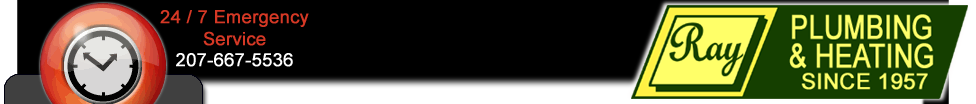
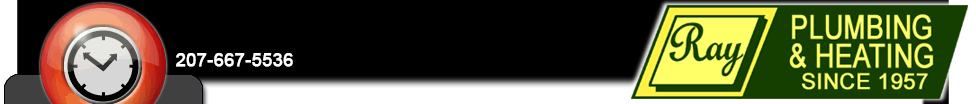
take all emergency service reference out
first pass

Changed region(s): [[0.1537, 0.0865, 0.3381, 0.2596], [0.1844, 0.4904, 0.3074, 0.6635], [0.1844, 0.3173, 0.2766, 0.4615]]

diff --git a/site/service.htm b/site/service.htm
@@ -81,10 +81,9 @@ height="0" width="0" style="display:none;visibility:hidden"></iframe></noscript>
 			<blockquote>
 			<p align="center">
           <b><font size="5">Service Department</font></b></p>
-			<p align="center"><b><font size="4">Our service department is open <br />24 hours a day,
-			<br>365 days a year, <br />providing plumbing and heating service.</font></b></p>
+			<p align="center"><b><font size="4">Our service department provides personable, experienced plumbing and heating service.</font></b></p>
 			<blockquote>
-			<p align="center"><b><font size="4">For Emergency Service call:<br><br />
+			<p align="center"><b><font size="4">For Service call:<br><br />
 			</font><font size="5"><a href="tel:2076675536">207-667-5536</a></font></b></p>
 						</blockquote>
 			<p>We offer memberships for any qualified plumbing & heating systems.</p>
@@ -121,7 +120,6 @@ height="0" width="0" style="display:none;visibility:hidden"></iframe></noscript>
 												<td bgcolor="#2C6002">
 												<p align="center">
 												<b>
-												<img border="0" src="images/burst.png" width="134" height="89">
 													<table border="0" cellpadding="5" style="margin-top: 20px; border-collapse: collapse" width="100%" bordercolor="#000000">
 														<tr>
 															<td bgcolor="#FFFFFF">
@@ -138,8 +136,7 @@ height="0" width="0" style="display:none;visibility:hidden"></iframe></noscript>
 								</tr>
 							</table>
 						</div>
-									<p><a href="green-team.htm">
-									<img src="images/greenteam.jpg" class="style3"></a></td>
+								</td>
 									<td width="200" valign="top">
 						&nbsp;<p>&nbsp;</td>
 								</tr>

diff --git a/site/waste-water.htm b/site/waste-water.htm
@@ -110,7 +110,7 @@ j=d.createElement(s),dl=l!='dataLayer'?'&l='+l:'';j.async=true;j.src=
 				</ul>
 				<p><font size="2">Ray Plumbing and Heating services all Gould
 				water pump systems as well as those of other manufacturers. Call
-				<a  href="tel:2076675536">207-667-5536</a> or 1-800-309-4825 for 24 hour emergency service.</font></p>
+				<a  href="tel:2076675536">207-667-5536</a> or 1-800-309-4825 for service.</font></p>
 			</blockquote>
 									</td>
 									<td width="200" valign="top">
@@ -130,7 +130,7 @@ j=d.createElement(s),dl=l!='dataLayer'?'&l='+l:'';j.async=true;j.src=
 												Heating, Ellsworth. <br>
 												<a style="color: white;" href="tel:2076675536">207-667-5536</a></font></b><p style="text-indent: -5px; margin-left: 5px" align="center">
 												<b><font color="#006600">
-												<img border="0" src="images/burst.png" width="134" height="89"><br>
+												<br>
 												</font>
 												<font face="Tahoma" color="#ffffff" size="2">
 												SYSTEM<br>
@@ -150,8 +150,7 @@ j=d.createElement(s),dl=l!='dataLayer'?'&l='+l:'';j.async=true;j.src=
 						</div>
 									<p>
 										<font face="tahoma">
-									<a href="green-team.htm">
-									<img src="images/greenteam.jpg" width="150" height="150" style="float: right" class="style2"></a></font></td>
+									</font></td>
 								</tr>
 								</table>
 						</div>

diff --git a/site/service-standard-heat.htm b/site/service-standard-heat.htm
@@ -44,7 +44,7 @@ j=d.createElement(s),dl=l!='dataLayer'?'&l='+l:'';j.async=true;j.src=
 														<tr>
 															<td bgcolor="#FFFFFF">
 															<b><font color="#006600">
-												<img border="0" src="images/burst.png" width="134" height="89"><br>
+											<br>
 															</font>
 															<font color="#FFFFFF" face="Tahoma" size="2">
 												<img border="0" src="photos/plumber-service.png" width="150" height="218"></font></b></td>
@@ -53,15 +53,15 @@ j=d.createElement(s),dl=l!='dataLayer'?'&l='+l:'';j.async=true;j.src=
 															<td><p align="center">
 												<font color="#FFFFFF" face="Tahoma" size="2"><b>
 												Coverage<br>
-												Includes Annual Maintenance and 
+												Includes Annual Maintenance and
 												Service Calls</b></font><p align="center">
 												<b>
 												<font face="Tahoma" size="2" color="#FFFFFF">
 												<a href="service-contact.htm">
 												<font color="#FFFF68">
 												<span style="text-decoration: none">
-												Click here to request a free 
-												custom Service Agreement 
+												Click here to request a free
+												custom Service Agreement
 												estimate&gt;&gt;&gt;</span></font></a></font></b></td>
 														</tr>
 													</table>

diff --git a/site/gould-pump.htm b/site/gould-pump.htm
@@ -112,7 +112,7 @@ j=d.createElement(s),dl=l!='dataLayer'?'&l='+l:'';j.async=true;j.src=
 												Heating, Ellsworth. <br>
 												<a style="color: white;" href="tel:2076675536">207-667-5536</a></font></b><p style="text-indent: -5px; margin-left: 5px" align="center">
 												<b><font color="#006600">
-												<img border="0" src="images/burst.png" width="134" height="89"><br>
+												<br>
 												</font>
 												<font face="Tahoma" color="#ffffff" size="2">
 												SYSTEM<br>
@@ -131,7 +131,7 @@ j=d.createElement(s),dl=l!='dataLayer'?'&l='+l:'';j.async=true;j.src=
 							</table>
 						</div>
 									<p>
-									<img src="images/greenteam.jpg" class="style5" style="float: right"></td>
+									</td>
 								</tr>
 								<tr>
 									<td width="509" style="font-family: Tahoma; font-size: 10pt">
@@ -192,7 +192,7 @@ j=d.createElement(s),dl=l!='dataLayer'?'&l='+l:'';j.async=true;j.src=
 				System</span></a></b></p>
 				<p><font size="2">Ray Plumbing and Heating services all Gould
 				water pump systems as well as those of other manufacturers. Call
-				207-667-5536 or 1-800-309-4825 for 24 hour emergency service.</font></p>
+				207-667-5536 or 1-800-309-4825 for service.</font></p>
 			</blockquote>
 									</td>
 								</tr>

diff --git a/site/heat.htm b/site/heat.htm
@@ -200,8 +200,7 @@ j=d.createElement(s),dl=l!='dataLayer'?'&l='+l:'';j.async=true;j.src=
 												<a href="service.htm">
 												<font color="#FFFF68">
 												<span style="text-decoration: none">
-												click f.m.i.&gt;&gt;&gt;</span></font></a></font><font color="#006600"><br>
-												<img border="0" src="images/burst.png" width="134" height="89"></font></b></p>
+												click f.m.i.&gt;&gt;&gt;</span></font></a></font></b></p>
 									</td>
 								</tr>
 							</table>
@@ -275,7 +274,7 @@ j=d.createElement(s),dl=l!='dataLayer'?'&l='+l:'';j.async=true;j.src=
 				<p>For much more information, please visit SYSTEM
             2000 at <a target="_blank" href="http://www.energykinetics.com/">www.energykinetics.com<span style="text-decoration: none">.</span></a>
 				</p>
-									<img src="images/greenteam.jpg" class="style5" style="float: right"><blockquote style="width: 269px">
+								<blockquote style="width: 269px">
 				<p align="center"><b><font size="5">Other Services</font></b></p>
 				<ul>
 					<li>Oil Tank Installation and replacements</li>

diff --git a/site/contact.htm b/site/contact.htm
@@ -142,7 +142,7 @@ j=d.createElement(s),dl=l!='dataLayer'?'&l='+l:'';j.async=true;j.src=
 			<p class="MsoNormal" align="center"><font size="5"><b>Our General
 
 			Contact Form</b></font></p>
-			<p style="font-weight: bold; text-align:center; color: #D53825; font-size: large;">For 24/7 Emergency Serice call <a style="color:#D53825;" href="tel:2076675536">207-667-5536</a>.</p>
+			<p style="font-weight: bold; text-align:center; color: #D53825; font-size: large;">For Serice call <a style="color:#D53825;" href="tel:2076675536">207-667-5536</a>.</p>
 
 			<p align="left">We invite you to send comments, requests and
 
@@ -245,7 +245,7 @@ j=d.createElement(s),dl=l!='dataLayer'?'&l='+l:'';j.async=true;j.src=
 									</font></b></span>
 
 									<!-- <input type="checkbox" name="system" value="refrigeration"><span style="text-transform: capitalize"><b><font size="2">	Commercial refrigeration systems<br></font></b></span> -->
-									
+
 									<i><font size="2">&nbsp;(Check
 
 									all that apply.)</font></i></p>

diff --git a/site/installations.htm b/site/installations.htm
@@ -70,8 +70,7 @@ j=d.createElement(s),dl=l!='dataLayer'?'&l='+l:'';j.async=true;j.src=
 		<blockquote>
 			<p align="center">
 			<b><font size="5">New Installations</font></b></p>
-			<p><a href="green-team.htm">
-									<img src="images/greenteam.jpg" class="style5" style="float: right"></a>We can work with you or your contractor to determine the best
+			<p>We can work with you or your contractor to determine the best
 				placement for your plumbing layout and fixture placement. </p>
 			<p align="center"><b><font size="5">Remodeling Projects</font></b></p>
 			<p>Again, we will work with your contractor or you to come up
@@ -110,7 +109,7 @@ j=d.createElement(s),dl=l!='dataLayer'?'&l='+l:'';j.async=true;j.src=
 												</div>
 												<p align="center">
 												<b><font color="#006600">
-												<img border="0" src="images/burst.png" width="134" height="89"><br>
+												<br>
 												</font>
 												<font face="Tahoma" color="#ffffff" size="2">
 												SYSTEM<br>

diff --git a/site/benjamin.htm b/site/benjamin.htm
@@ -186,8 +186,7 @@ height="0" width="0" style="display:none;visibility:hidden"></iframe></noscript>
 												bank account at Ray Plumbing and
 												Heating, Ellsworth. <br>
 												<a style="color: white;" href="tel:2076675536">207-667-5536</a></font></b><p style="text-indent: -5px; margin-left: 5px" align="center">
-												<b><font color="#006600">
-												<img border="0" src="images/burst.png" width="134" height="89"></font><font color="#FFFFFF" face="Tahoma" size="2"><br>
+												<b><font color="#FFFFFF" face="Tahoma" size="2"><br>
 												HEAT SYSTEM<br>
 												SERVICE AGREEMENT<br>
 												As Low as $189.00</font><font face="tahoma" size="2" color="#FFFFFF"><br>

diff --git a/site/weddings.htm b/site/weddings.htm
@@ -845,8 +845,7 @@ j=d.createElement(s),dl=l!='dataLayer'?'&l='+l:'';j.async=true;j.src=
 								</tr>
 							</table>
 						</div>
-									<p class="style6"><a href="green-team.htm">
-									<img src="images/greenteam.jpg" class="style5"></a><p class="style6">&nbsp;<p class="style6">
+									<p class="style6"><p class="style6">&nbsp;<p class="style6">
 						<img border="0" src="photos/SINGLE-WEDDING-POTTY.jpg" width="180" height="378"><p class="style6">
 						&nbsp;<p class="style6">
 						<img border="0" src="photos/POTTY-PIX-(1).jpg" width="180" height="135"><br>

diff --git a/site/programs.htm b/site/programs.htm
@@ -143,8 +143,7 @@ j=d.createElement(s),dl=l!='dataLayer'?'&l='+l:'';j.async=true;j.src=
 											<tr>
 												<td bgcolor="#2C6002">
 												<p align="center">
-												<b><font color="#006600">
-												<img border="0" src="images/burst.png" width="134" height="89"></font><font color="#FFFFFF" face="Tahoma" size="2"><br>
+												<b><font color="#FFFFFF" face="Tahoma" size="2"><br>
 												HEAT SYSTEM<br>
 												SERVICE AGREEMENT<br>
 												As Low as $189.00</font></b><div align="center">

diff --git a/site/greenwood.htm b/site/greenwood.htm
@@ -211,7 +211,7 @@ height="0" width="0" style="display:none;visibility:hidden"></iframe></noscript>
 												click f.m.i.&gt;&gt;&gt;</span></font></a></font></b></p>
 												<p style="text-indent: -5px; margin-left: 5px">
 												<b><font color="#006600">
-												<img border="0" src="images/burst.png" width="134" height="89"></font></b></p>
+												</font></b></p>
 												<p style="text-indent: -5px; margin-left: 5px" align="center">
 												&nbsp;</td>
 											</tr>

diff --git a/site/refrigeration.htm b/site/refrigeration.htm
@@ -106,8 +106,7 @@ j=d.createElement(s),dl=l!='dataLayer'?'&l='+l:'';j.async=true;j.src=
 												click f.m.i.&gt;&gt;&gt;</span></font></a></font></b></p>
 												<p style="text-indent: -5px; margin-left: 5px">
 												<b><font color="#006600">
-												<a href="service-contact.htm">
-												<img border="0" src="images/burst.png" width="134" height="89"></a></font></b></p></td>
+												</font></b></p></td>
 											</tr>
 										</table>
 									</div>
